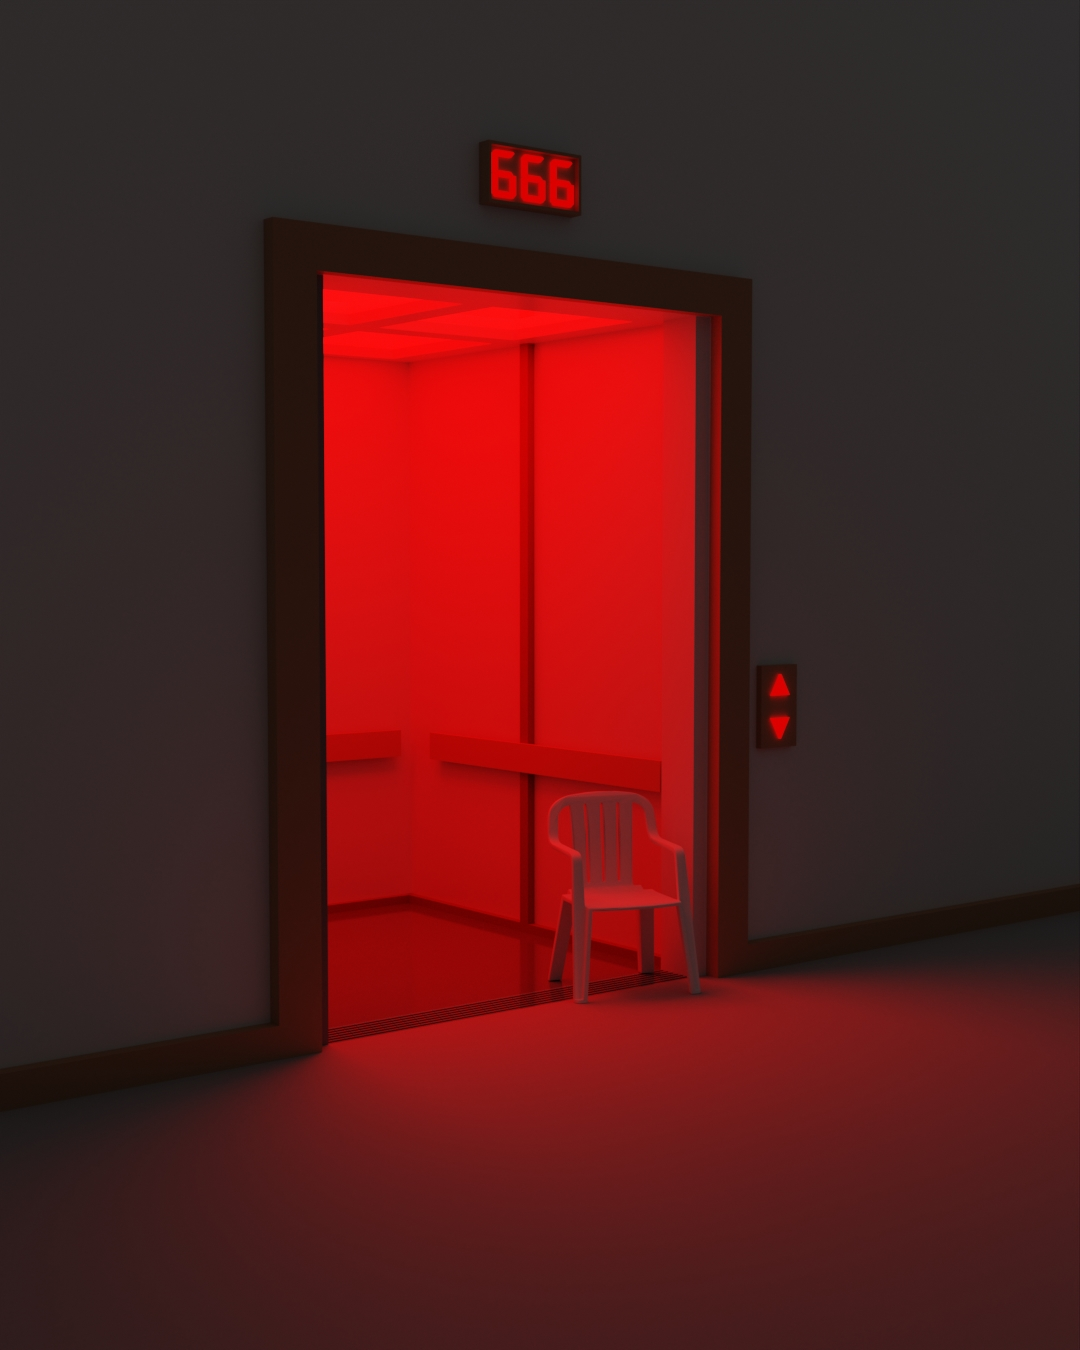
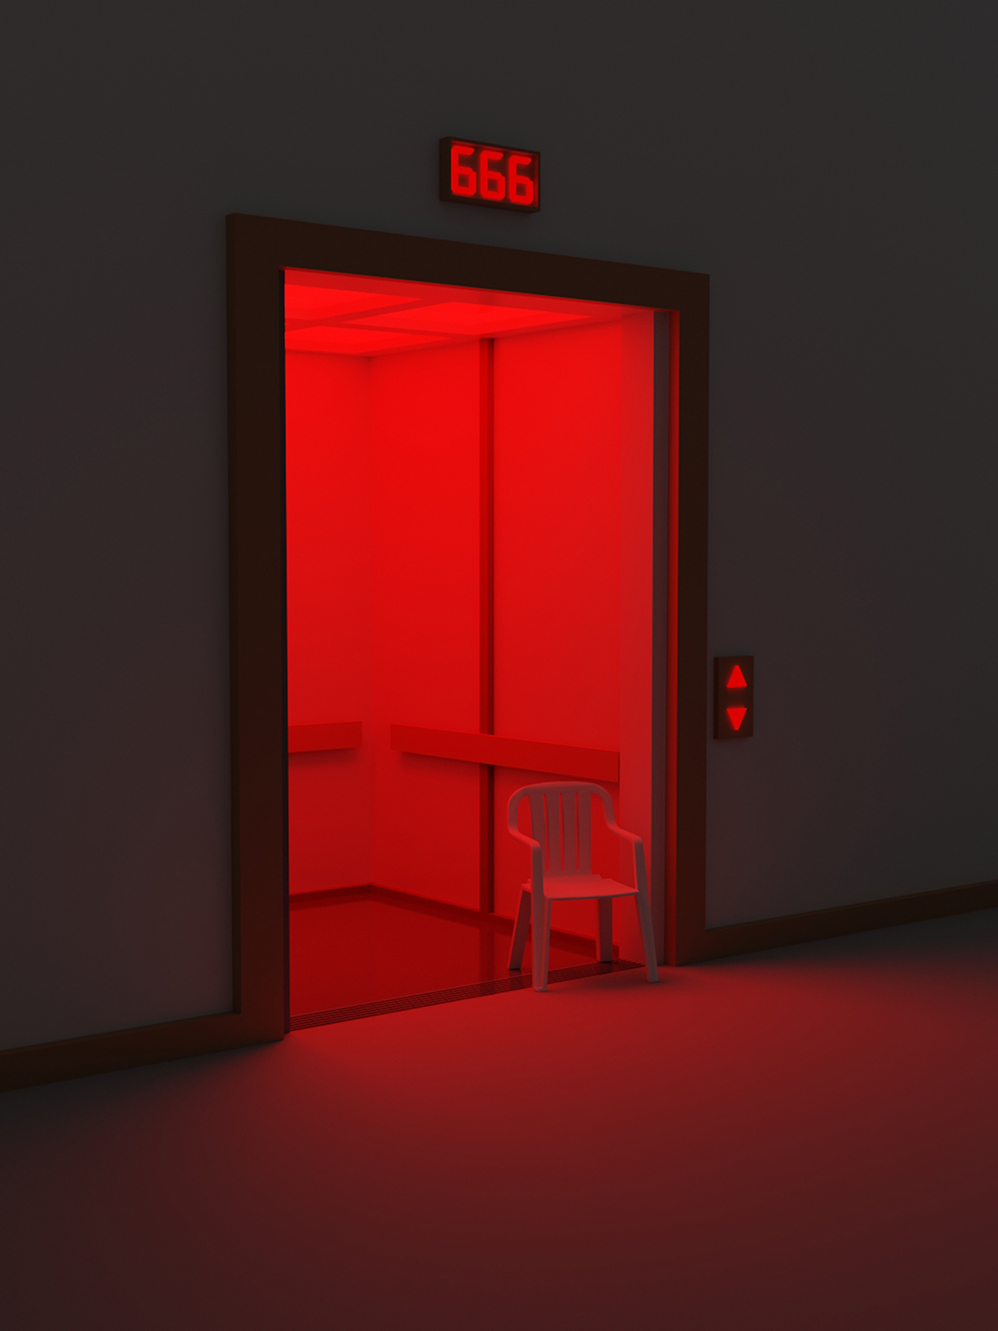
Simple fixes: Updated detail to center the image grid better Fixed the github link on the about page Cropped the 'Lift.jpg' image to match other ratios

diff --git a/src/components/about.jsx b/src/components/about.jsx
@@ -1,17 +1,28 @@
 import './css/about.css';
 
 function about() {
-  return(
+  return (
     <div id="aboutContainer">
-      <h1 id="aboutTitle" className="textColour">Hi, I'm Will.</h1>
+      <h1 id="aboutTitle" className="textColour">
+        Hi, I'm Will.
+      </h1>
       <img src="/WillWestwood.jpg" alt="WillWestwood"></img>
-      <p id="aboutPara" className="textColour">I'm a web developer and digital 3D artist, 
-      currently studying Graphic Design at Central Saint Martins, London.<br/><br/>
-      This site was designed and built by me, using the React framework.
+      <p id="aboutPara" className="textColour">
+        I'm a web developer and digital 3D artist, currently studying Graphic
+        Design at Central Saint Martins, London.
+        <br />
+        <br />
+        This site was designed and built by me, using the React framework.
       </p>
-      <a href='https://github.com/wwstwd/GCDPortfolio' target='_blank' rel='noreferrer'>Code for this site</a>
+      <a
+        href="https://github.com/iwouldntbother/PortfolioSite"
+        target="_blank"
+        rel="noreferrer"
+      >
+        Code for this site
+      </a>
     </div>
-  )
+  );
 }
 
 export default about;

diff --git a/src/components/css/detail.css b/src/components/css/detail.css
@@ -53,7 +53,7 @@ body {
 }
 
 .detailImage {
-  width: 68vw;
+  max-width: 68vw;
   /* background: darkcyan; */
   display: flex;
   align-items: center;
@@ -82,6 +82,7 @@ body {
 .detailText {
   font-size: 0.8vw;
   margin: 1vw 0;
+  max-width: 68vw;
 }
 
 .detailLink {
@@ -118,7 +119,7 @@ body {
 }
 
 .imageGridContainer {
-  width: 68vw;
+  max-width: 66vw;
   display: flex;
   align-items: center;
   justify-content: left;
@@ -128,8 +129,8 @@ body {
 }
 
 .imageGridItem {
-  max-width: 31vw;
-  margin: 1vw;
+  width: calc(68vw / 3);
+  margin-bottom: 3vh;
   display: flex;
   flex-direction: column;
   align-items: center;
@@ -138,7 +139,7 @@ body {
 
 .imageGridIMG {
   max-width: 31vw;
-  max-height: 40vh;
+  max-height: 60vh;
   width: auto;
   height: auto;
 }

diff --git a/src/components/detail.jsx b/src/components/detail.jsx
@@ -201,7 +201,7 @@ class ImageGrid extends React.Component {
         <div
           className="imageGridItem"
           key={index}
-          style={{ maxWidth: (68 - this.columns * 2) / this.columns + 'vw' }}
+          style={{ maxWidth: 66 / this.columns + 'vw' }}
         >
           <div className="imageGridHolder">
             <img
@@ -209,7 +209,7 @@ class ImageGrid extends React.Component {
               src={item.src}
               alt={item.alt}
               style={{
-                maxWidth: (68 - this.columns * 2) / this.columns + 'vw',
+                maxWidth: (66 - this.columns * 2) / this.columns + 'vw',
               }}
             ></img>
             <p className="imageGridCap textColour">{item.cap}</p>
